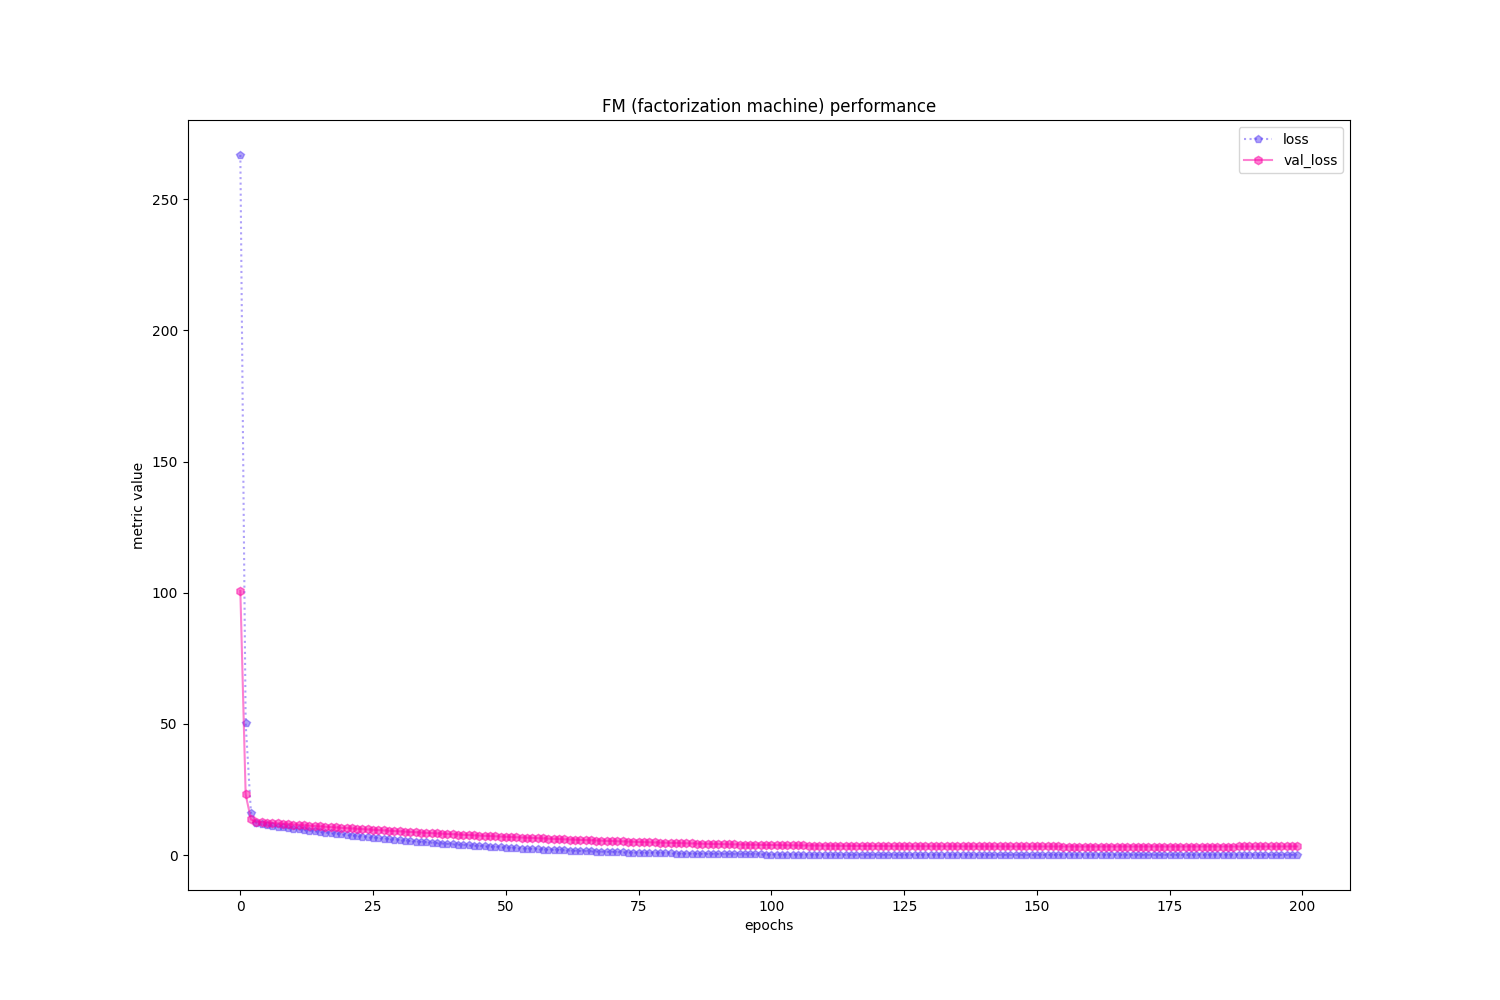
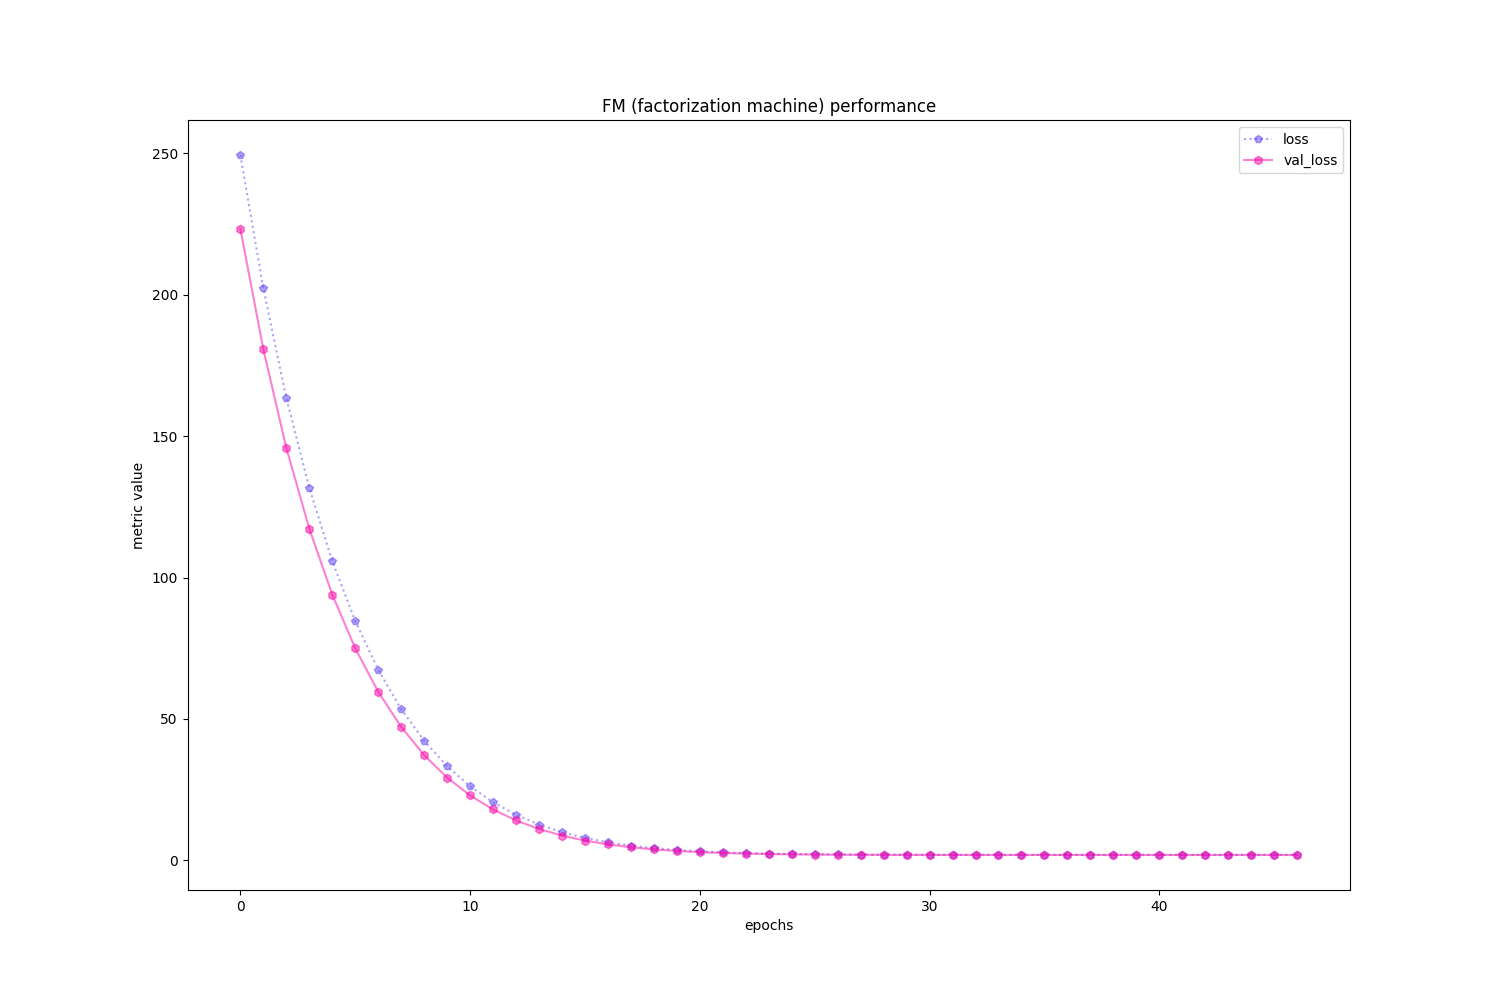
trained FM and DFM models, val loss ok for both models

diff --git a/train_model.py b/train_model.py
@@ -3,14 +3,11 @@ from tensorflow.keras.losses import MeanSquaredError as mse_loss
 from tensorflow.keras.metrics import MeanSquaredError as mse_metric
 from tensorflow.keras.callbacks import EarlyStopping
 
-from models.model_arcs import PhilJurisFM, FM, DFM
+from models.model_arcs import FM, DFM
 from utilities.data_visualizers import view_vars, train_cross_results_v2
-from utilities.data_loaders import load_ratings_small, load_raw_movie_ratings_large, load_raw_juris_ratings_large, split_data
-from utilities.data_preprocessors import normalize_ratings, get_length__build_value_to_index, build_results
+from utilities.data_loaders import load_ratings_small, load_raw_movie_ratings_large, load_raw_juris_ratings_large
+from utilities.data_preprocessors import normalize_ratings, get_length__build_value_to_index, build_results, split_data
 from argparse import ArgumentParser, ArgumentTypeError, ArgumentError
-
-
-
 
 
 
@@ -44,19 +41,32 @@ if __name__ == "__main__":
 
     # load user-item rating dataset
     data = dataset[args.d]
+    print(data)
 
     # we must know number of total users and items first before splitting dataset
+    # in hate speech classifier we built the word to index dictionary first and
+    # configures the embedding matrix to have this dicitonary's number of unique words
+    # the embedding look up will have a set number of users & itemstaking into account 
+    # the unique users and items in the training, validation, and testing splits
     n_users, user_to_index = get_length__build_value_to_index(data, 'user_id')
     n_items, item_to_index = get_length__build_value_to_index(data, 'item_id')
-
-    # normalize ratings of each user to an item
-    data = normalize_ratings(data)
-
-    # wait what if training set does notcontain the users
-
+    
     # modify dataframe column user_id with new indeces from 0 to n_u - 1
     data['user_id'] = data['user_id'].apply(lambda user_id: user_to_index[user_id])
     data['item_id'] = data['item_id'].apply(lambda item_id: item_to_index[item_id])
+
+    # here it is imperative that we split first before normalization
+    # to prevent data leakage across the validation and testing sets
+    train_data, cross_data, test_data = split_data(data)
+
+    # normalize ratings of each user to an item
+    train_data = normalize_ratings(train_data)
+    cross_data = normalize_ratings(cross_data)
+    test_data = normalize_ratings(test_data)
+
+    # wait what if training set does not contain the users
+
+    
 
     
     # print(args.n_epochs)
@@ -70,20 +80,20 @@ if __name__ == "__main__":
     #     regularization=args.regularization)
     # history = model.train()
 
-    # model = FM(
-    #     n_users=n_users, 
-    #     n_items=n_items,
-    #     emb_dim=args.n_features,
-    #     lambda_=args.rec_lambda,
-    #     regularization=args.regularization)
-    
-    model = DFM(
+    model = FM(
         n_users=n_users, 
-        n_items=n_items, 
-        emb_dim=args.n_features, 
-        lambda_=args.rec_lambda, 
-        keep_prob=args.rec_keep_prob, 
+        n_items=n_items,
+        emb_dim=args.n_features,
+        lambda_=args.rec_lambda,
         regularization=args.regularization)
+    
+    # model = DFM(
+    #     n_users=n_users, 
+    #     n_items=n_items, 
+    #     emb_dim=args.n_features, 
+    #     lambda_=args.rec_lambda, 
+    #     keep_prob=args.rec_keep_prob, 
+    #     regularization=args.regularization)
 
     model.compile(
         optimizer=Adam(learning_rate=args.rec_alpha),
@@ -92,15 +102,15 @@ if __name__ == "__main__":
     )
 
     history = model.fit(
-        [data['user_id'], data['item_id']],
-        data['normed_rating'],
+        [train_data['user_id'], train_data['item_id']],
+        train_data['normed_rating'],
         batch_size=args.batch_size,
         epochs=args.n_epochs,
-        validation_split=0.3,
+        validation_data=([cross_data['user_id'], cross_data['item_id']], cross_data['normed_rating']),
         callbacks=[EarlyStopping(monitor='val_loss', patience=3)]
     )
 
-    # train_cross_results_v2(results=build_results(history, metrics=['loss', 'val_loss',]), epochs=history.epoch, img_title='FM (factorization machine) performance')
-    train_cross_results_v2(results=build_results(history, metrics=['loss', 'val_loss',]), epochs=history.epoch, img_title='DFM (deep factorization machine) performance')
+    train_cross_results_v2(results=build_results(history, metrics=['loss', 'val_loss',]), epochs=history.epoch, img_title='FM (factorization machine) performance')
+    # train_cross_results_v2(results=build_results(history, metrics=['loss', 'val_loss',]), epochs=history.epoch, img_title='DFM (deep factorization machine) performance')
     
 

diff --git a/utilities/data_preprocessors.py b/utilities/data_preprocessors.py
@@ -1,6 +1,7 @@
 import argparse
 import numpy as np
 import pandas as pd
+from sklearn.model_selection import train_test_split
 import itertools as it
 
 
@@ -148,12 +149,21 @@ def _build_value_to_index(unique_ids):
     return {id: index for index, id in enumerate(unique_ids)}
 
 
-def split_into_train_val_test(data):
+def split_data(df: pd.DataFrame):
     """
-    splits the dataframe or numpy array into training, validation, and testing
-    sets
+    splits the given dataframe into training, cross-validation, and testing sets
     """
-    pass
+    columns = df.columns != 'rating'
+    X_trains, X_, Y_trains, Y_ = train_test_split(df[df.columns[columns]], df['rating'], test_size=0.3, random_state=0)
+    X_cross, X_tests, Y_cross, Y_tests = train_test_split(X_, Y_, test_size=0.3, random_state=0)
+
+    # reintegrate Y outputs to X inputs because the combined
+    # dataframe will be used as a whole for the normalization
+    # function
+    train_data = pd.concat([X_trains, Y_trains], axis=1)
+    cross_data = pd.concat([X_cross, Y_cross], axis=1)
+    test_data = pd.concat([X_tests, Y_tests], axis=1)
+    return train_data, cross_data, test_data
 
     
 

diff --git a/utilities/data_loaders.py b/utilities/data_loaders.py
@@ -1,6 +1,6 @@
 import numpy as np
 import pandas as pd
-from sklearn.model_selection import train_test_split
+
 
 def load_precalc_params_small(dir_path):
     file = open(f'{dir_path}/small_movies_X.csv', 'rb')
@@ -60,17 +60,10 @@ def load_raw_juris_ratings_large(dir_path):
     and the synthetic rating created for that user-item interaction
     """
 
-    df = pd.read_csv(f'{dir_path}/synthesized_juris_ratings.csv', header=None, index_col=0)
+    df = pd.read_csv(f'{dir_path}/synthesized_juris_ratings.csv', index_col=0)
     
     return df
 
-def split_data(df):
-    """
-    splits the given dataframe into training, cross-validation, and testing sets
-    """
-    
-    X_trains, X_, Y_trains, Y_ = train_test_split(df, test_size=0.3, random_state=0)
-    X_cross, X_tests, Y_cross, Y_tests = train_test_split(df, test_size=0.3, random_state=0)
-    return X_trains, Y_trains, X_cross, Y_cross, X_tests, Y_tests
+
 
 

diff --git a/models/model_arcs.py b/models/model_arcs.py
@@ -40,14 +40,12 @@ class FM(tf.keras.Model):
 
 
     def call(self, inputs, **kwargs):
-        if kwargs['log'] == True:
-            print(user_id_input)
-
         # catch inputs first since Model will be taking in a 2 rows of data
         # the user_id_input which is m x 1 and item_id_input which is m x 1
         # since one example would be one user and one item
         user_id_input = inputs[0]
         item_id_input = inputs[1]
+        # print(inputs)
 
         # DEFINE FORWARD PROPAGATION
         user_emb = self.user_emb_layer(user_id_input)
@@ -124,7 +122,7 @@ class DFM(tf.keras.Model):
         # since one example would be one user and one item
         user_id_input = inputs[0]
         item_id_input = inputs[1]
-        print(inputs)
+        # print(inputs)
 
         # DEFINE FORWARD PROPAGATION
 
